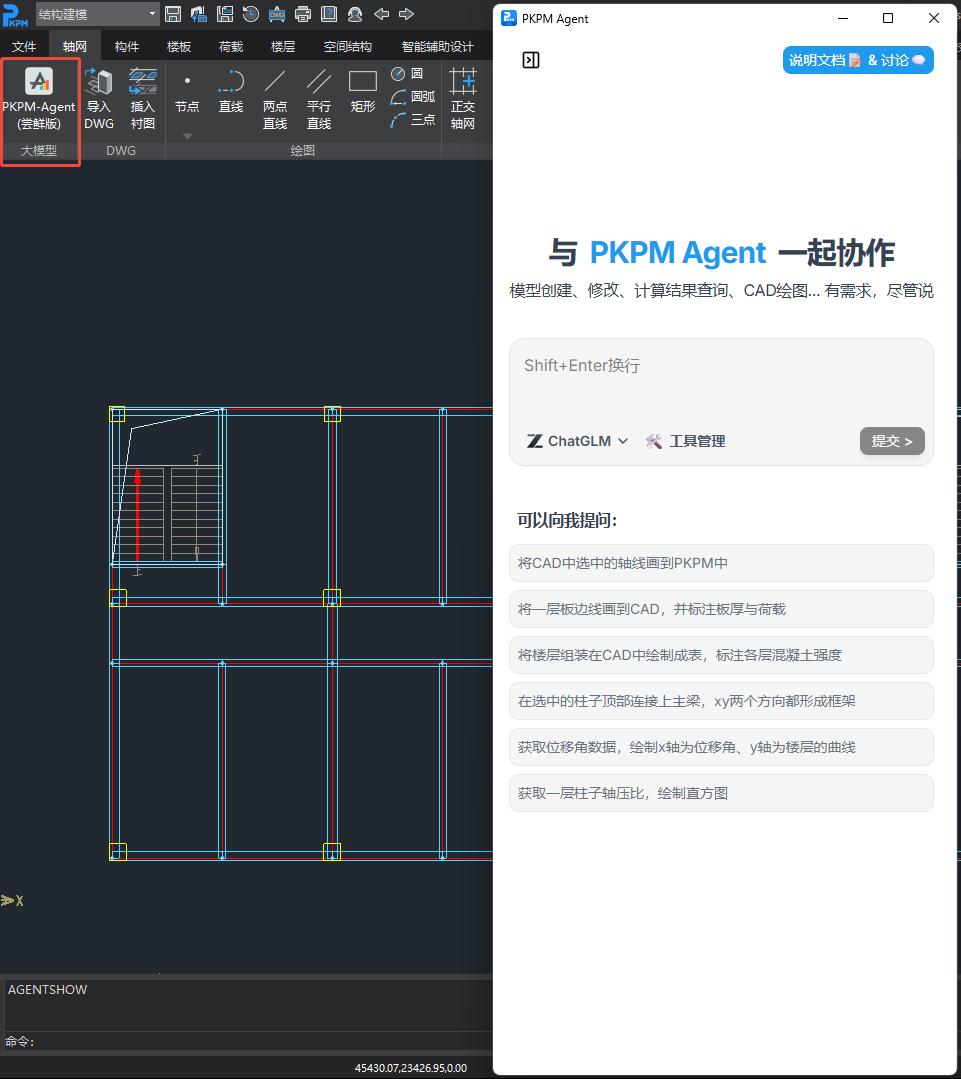
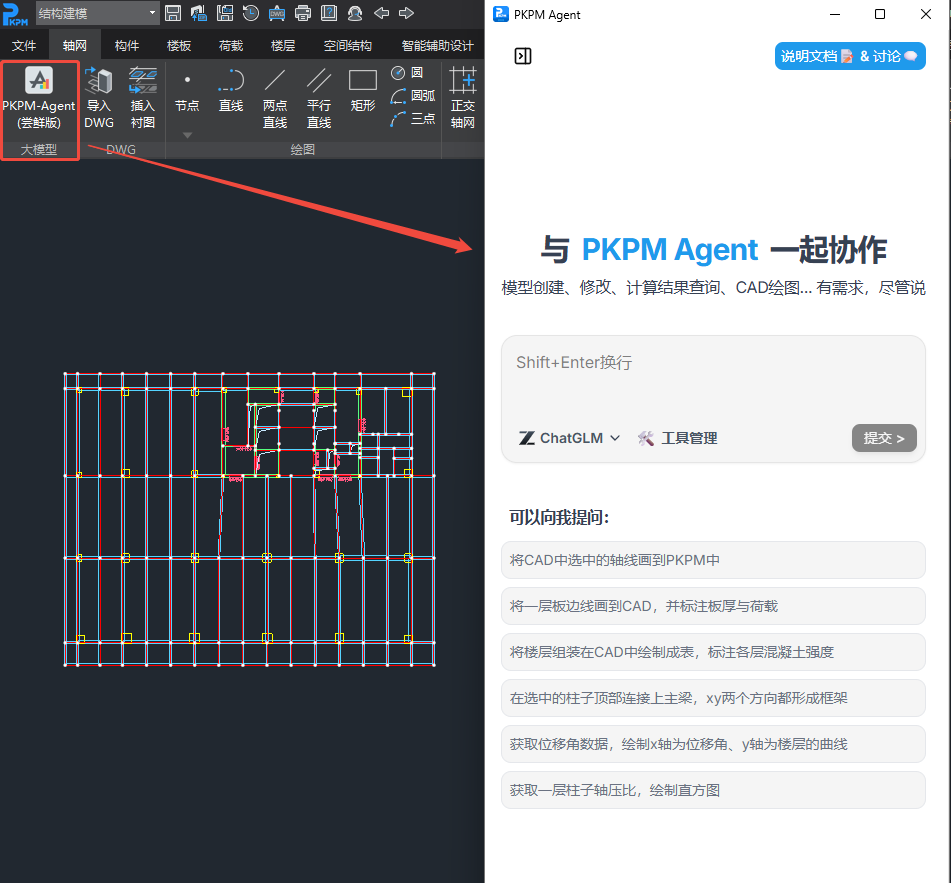
初步完成

diff --git a/README.md b/README.md
@@ -1,5 +1,5 @@
 # PKPM Agent 用户手册
-## 1. 基本介绍
+## 1. 基本信息
 PKPM 结构设计智能体是一款基于大语言模型的设计辅助工具。通过自然语言交互的方式，可以实现：
 
 - 🏗 **结构模型创建与修改**
@@ -7,170 +7,74 @@ PKPM 结构设计智能体是一款基于大语言模型的设计辅助工具。
 - 📈 **计算结果查询与可视化**
 - 📐 **CAD 自动绘图**
 
-### 🌠 界面
+**🌠界面**
 
-![工具启动界面](HelpImage/界面.png)
+<img src="HelpImage/界面.png" alt="工具启动界面" width="600">
 
-## 二、使用设置
+## 2. 基本配置(第一次使用必读)
 
-### 2.1 软件环境
+### 2.1 环境
+- 💻 **需要安装：PKPM2026R1.0-64及以上，AutoCAD 2014 及以上(绘图)**
+- 🌐 **需连接网络(用于大模型调用)**
 
-- 已安装 64 位的 PKPM 结构设计软件（PKPM2026R1.0-64）
-- 已安装 CAD 软件（用于绘图功能，支持 AutoCAD 2010 及以上版本）
-- 操作系统：Windows 10/11 64 位系统
-- 网络环境：需保持网络连接（用于大语言模型调用）
+### 2.2 启动位置
+打开 PKPM 软件，在轴网菜单栏中点击 **⌈PKPM Agent 尝鲜版⌋**，即可打开Agent对话框，支持页面缩放。
 
-### 2.2 工具启动
+<img src="HelpImage/启动.png" alt="工具启动界面" width="600">
 
-打开 PKPM 软件并进入目标工程后，在构件菜单栏中点击【PKPM Agent 尝鲜版】，系统会进入到相关操作界面，当前界面可以自行调整大小，按照用户的相关需求可自行调整。
+### 2.3 大模型设置
+- 在 Agent 面板中点击 "管理" 按钮，从下拉菜单中选择要使用模型：
+<img src="HelpImage/模型选择.png" alt="工具启动界面" width="800">
 
-![工具启动界面](HelpImage/启动.png)
+- 然后再点击小齿轮，填入模型服务商的 APIKey：
+<img src="HelpImage/apikey.png" alt="工具启动界面" width="800">
 
-### 2.3 模型选择
+- 可以点击 **获取 API 密钥** 直接跳转到对应网页。
+<img src="HelpImage/offical.png" alt="工具启动界面" width="800">
 
-在 Agent 面板中点击 "管理" 按钮，从下拉菜单中选择所需大语言模型：
+我们测试下来感觉质谱清言的glm-4.5是国内性能最强大的模型，也推荐您使用。
+点击注册即可获取质谱官方送出的20元使用额度。
 
-- 优先选择 "ChatGLM 智谱清言"
+## 3. 功能介绍
 
-### 2.4 API key的获取
+### 3.1 工具管理
 
-若是需要启动对应的大模型能力，需要进行获取相关大模型进行服务。目前系统支持多种模型接入。同时也支持用户自行进行更强力的模型。满足用用户的需求。
+**系统目前内置了近 100 种工具，涵盖建模、截面编辑、荷载添加、构件结果、指标结果、CAD绘制等常用功能**
 
-支持的模型和获取API的服务如下：
+- 点击**工具管理**，可以查看Agent目前掌握的所有工具。
+<img src="HelpImage/tools.png" alt="" width="800">
 
-> 暂时无法在建研智通文档外展示此内容
+- 可以控制是否启用相关工具组，**只启用必要的工具组可以提高效率与准确性，大幅降低Token消耗。**
+<img src="HelpImage/Alltools.png" alt="" width="500">
 
-整体的接入过程可以分为三步：
+**注意** 关闭工具组后，Agent就会丧失响应的能力，如果发现模型未能完成任务，可以确认工具组是否已开启。
 
-1. 进入到API获取界面
-2. 选择厂商的模型服务，获取token数量
-3. 获取APIkey
+## 4. 案例
+### 4.1 建模
+- 提示词：**在选中的柱子顶部连接上主梁，xy 两个方向都形成框架**
+- 通过自然语言指令让智能体自动操纵 PKPM 软件，完成模型构件创建、连接关系调整、参数修改等任务，支持梁柱、标准层等操作。
 
-下面对整个过程进行说明。（涉及模型厂商较多，本文仅介绍总体做法，各家厂商总体思路一致，更多详细内容，可以查看对应官方文档）
+<img src="HelpImage/建模.gif" alt="" width="1200">
 
-关键点在于获取三个参数：**模型ID**、**对应的API地址**、**相关账户的APIkey**。
+### 4.2 荷载布置
+- 提示词：**粘贴提资后，要求施加荷载**
+- 支持读取 Excel 格式的上游提资数据（如恒载、活载数值及坐标），自动完成楼层、节点的荷载布置，减少手动输入错误。
 
-#### 2.4.1 进入到API获取界面
+<img src="HelpImage/荷载.gif" alt="" width="1200">
 
-1. 点击模型下方的拉取按钮选择右侧的按钮
-2. 点击即可弹出相关对话框，点击获取API密钥可以跳转到模型服务能力提供方
-3. 首次登录需要注册账号，进入后可以按照相关操作指引获取API秘钥，并输入到原API位置。系统默认为大模型官方网站，也可以接入硅基流动等第三方服务商
+## 4.3 查询计算结果
+- 提示词：**获取选中柱子的轴压比，绘制直方图**
+- 通过自然语言指令查询结构计算结果（如轴压比、位移角等），并自动生成直方图、曲线等可视化图表，无需手动导出数据后二次处理。
 
-#### 2.4.2 选择厂商的模型服务
+<img src="HelpImage/后处理.gif" alt="" width="1200">
 
-关于模型ID: 不同的厂商其开发的大模型能力各有区别，各家均发布了较多的模型。即使是同一个厂商，其内部有较多的模型型号，提供不同的服务。如GLM-4.5、GLM-4.5x等，在对于模型的选择上,建议如下：
+### 4.4 操纵 CAD 自动绘图
+- 提示词：**选中梁线画到CAD，标注截面尺寸**
+- 实现 PKPM 与 CAD 的数据双向流转，通过指令将 PKPM 中的构件（如梁、柱）自动导出至 CAD 并完成截面尺寸标注，减少手动绘图工作量。
 
-- 对于初步使用Agent的用户，建议以默认的模型ID进行应用，因为提供的各个厂商的默认模型已经经过内部严格评估，其任务执行能力，推理能力及稳定性都进行了验证，能够支撑其发挥对应功能。若需要更新，调整模型，建议向上兼容，即选取在此模型系列上更为强劲的模型，效果与体验会更好些。
+<img src="HelpImage/cad.gif" alt="" width="1200">
 
-- 若为深度体验用户尝试自行选择模型的版本，有此需求可联系技术支持侧同事进行专项询问，了解。
 
-进入到模型API提供页面中，可以根据需求选择对应的模型型号，包括token流量包的规格。进行购买和使用。按照经验预估，每次问答token消耗量在7k~1w左右，具体消耗情况需要结合任务的复杂程度。可以根据用时进行评估购买。
-
-#### 2.4.3 获取对应模型的地址
-
-对应api的请求地址在各模型厂商官方说明手册都会体现，在模型ID不调整的情况下，地址无需调整，建议都是默认。若需要查找，模型API地址所在位置一般为文档（手册）—首次调用API介绍说明—API请求地址，若未能获取也可以询问技术支持相关同事。
-
-#### 2.4.4 获取API key
-
-主流大语言模型（千问、Kimi、智谱清言、DeepSeek）的 API 密钥获取均遵循相似流程：需先访问对应官方平台（阿里云灵积平台、Moonshot AI 官网、智谱 AI 开放平台、DeepSeek 开放平台），完成账号注册与必要的身份验证后，登录开发者控制台或 API 管理页面，在密钥管理相关模块（如 "API 密钥管理"、"Access Token" 或 "密钥管理"）中创建并获取 API 密钥。
-
-获取过程中需注意：
-
-- 各平台均要求开通对应模型服务并确保账户状态正常
-- 密钥属于敏感信息，生成后需立即妥善保存（部分平台密钥仅显示一次）
-- 应遵循最小权限原则，为不同环境配置不同密钥，并定期轮换
-- 如遇泄露需立即在平台吊销并重生成，同时注意各平台的调用额度与计费标准
-
-## 三、功能介绍
-
-### 3.1 整体功能介绍
-
-#### 3.1.1 界面
-
-1. **历史问答栏**：点击此处，可以查看当前Agent的历史操作记录，再次点击后可进行收回。支持点击历史记录进行查看。
-
-2. **预设提示词**：方便用户快速的进行应用一些场景，选择后即可进行任务。
-
-3. **输入对话框**：用户可在此处输入相关自然语言命令，驱动agent进行相关任务。
-
-其中左侧为模型选择功能栏，上文已经介绍，此处不做赘述。
-
-**【管理】按键**用来形成对于相关工具进行开关，可以根据当前命令执行涉及的功能情况进行筛选，动态调整开关相关功能。需要注意的事：目前功能的开关带有记忆功能，启动新的模型后仍然会保留相关设置情况，执行不同的工作需要注意相关功能的开关状况，以保证相关生成效果。
-
-4. **意见反馈与收集列表**：点击后可进入到用户意见收集页面。
-
-#### 3.1.2 相关功能
-
-1. 支持对提示词进行调整，编辑。可在提示内容中直接对内容进行修改，同时保留上一次提示词下面的问题回复。
-
-2. 每次问答完成后会在问答的最下方对本次消耗的Token进行统计显示。
-
-系统目前内置了6大类近百余种工具，涵盖建模、截面编辑、荷载添加、构件结果、指标结果、CAD绘制等涉及结构设计师常用近90%功能。可以基于相关能力根据需求自主发起相关指令。以下是相关场景示意说明。
-
-> **注意**：使用相关功能需要打开相关工具，如果不打开，则执行的效果有可能不符合预期。
-
-### 3.2.1 结构模型新建 / 提取 / 修改
-
-#### 功能概述
-
-通过自然语言指令让智能体自动操纵 PKPM 软件，完成模型构件创建、连接关系调整、参数修改等任务，支持梁柱、标准层等核心构件操作。
-
-#### 示例说明
-
-**任务**：在选中的柱子顶部连接上主梁，xy 两个方向都形成框架
-
-**步骤**：
-
-1. 在模型中用鼠标点选目标柱子（选中后柱子呈白色高亮）
-2. 在 Agent 输入框中输入指令："在选中的柱子顶部连接上主梁，xy 两个方向都形成框架"
-3. 点击 "提交"，工具将自动计算主梁尺寸、定位，并在柱子顶部 xy 方向生成框架梁
-
-### 3.2.2 荷载布置
-
-#### 功能概述
-
-支持读取 Excel 格式的上游提资数据（如恒载、活载数值及坐标），自动完成楼层、节点的荷载布置，减少手动输入错误。
-
-### 3.2.3 自然语言查询计算结果
-
-#### 功能概述
-
-通过自然语言指令查询结构计算结果（如轴压比、位移角等），并自动生成直方图、曲线等可视化图表，无需手动导出数据后二次处理。
-
-#### 示例说明
-
-**任务 1**：获取选中柱子的轴压比，绘制直方图
-
-**步骤**：
-
-1. 在计算完成后的模型中，用鼠标选中需查询的柱子（可框选多个）
-2. 输入指令："获取选中柱子的轴压比，绘制直方图"，点击 "提交"
-3. 工具生成直方图，横轴为柱子编号，纵轴为轴压比值，可直观对比各柱子指标
-
-#### 注意事项
-
-- 需在计算完成后使用该功能（未计算时将提示 "无有效计算结果"）
-- 指令需明确数据维度（如 "选中柱子""全楼楼层"），避免模糊表述（如 "查轴压比"）
-
-### 3.2.4 操纵 CAD 自动绘图
-
-#### 功能概述
-
-实现 PKPM 与 CAD 的数据双向流转，通过指令将 PKPM 中的构件（如梁、柱）自动导出至 CAD 并完成截面尺寸标注，减少手动绘图工作量。
-
-## 四、Q&A
-
-### 4.1 指令提交后无响应
-
-- 检查网络连接是否正常（大语言模型需联网调用）
-- 确认指令是否清晰（避免歧义表述，如 "画梁" 需明确位置和类型）
-- 重启 PKPM 软件并重新激活 Agent 工具
-
-### 4.2 操作结果与预期不符
-
-- 核对指令是否遗漏关键信息（如未说明 "xy 方向""楼层范围"）
-- 检查模型状态
-- 在 Agent 面板点击 "许愿池 & 点我吐槽" 反馈问题，附上指令和截图
 
 
 
